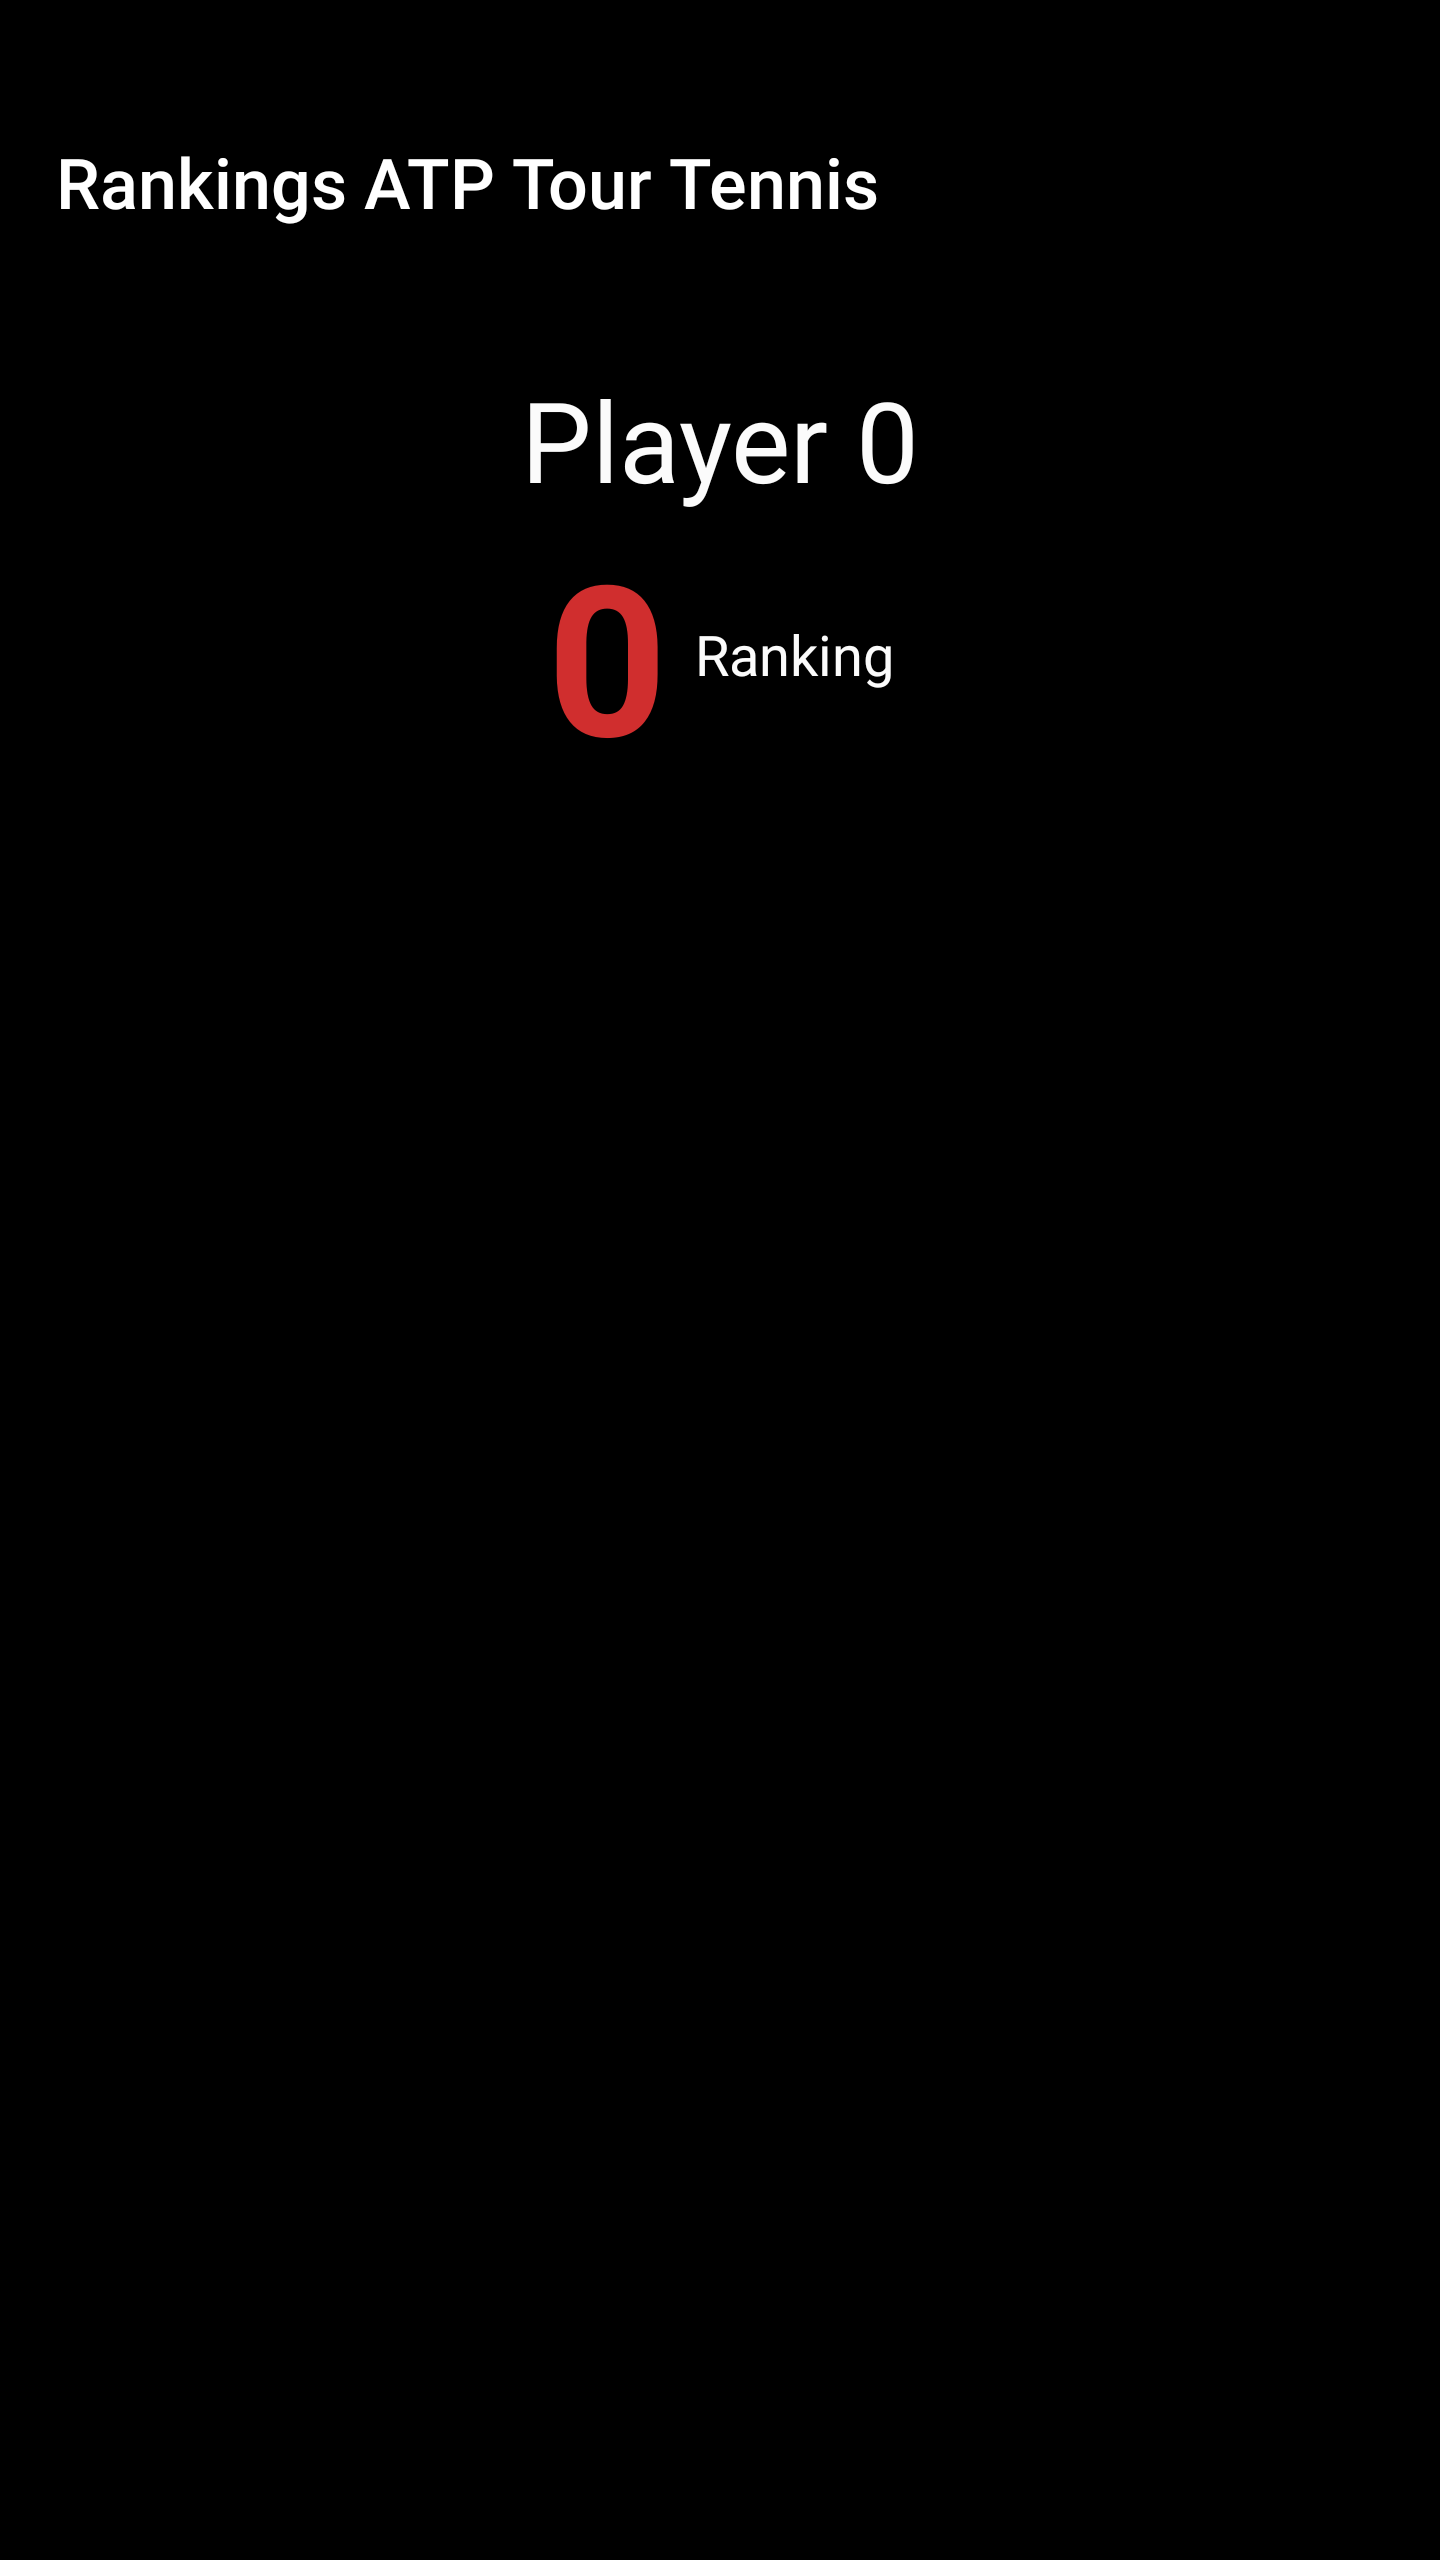
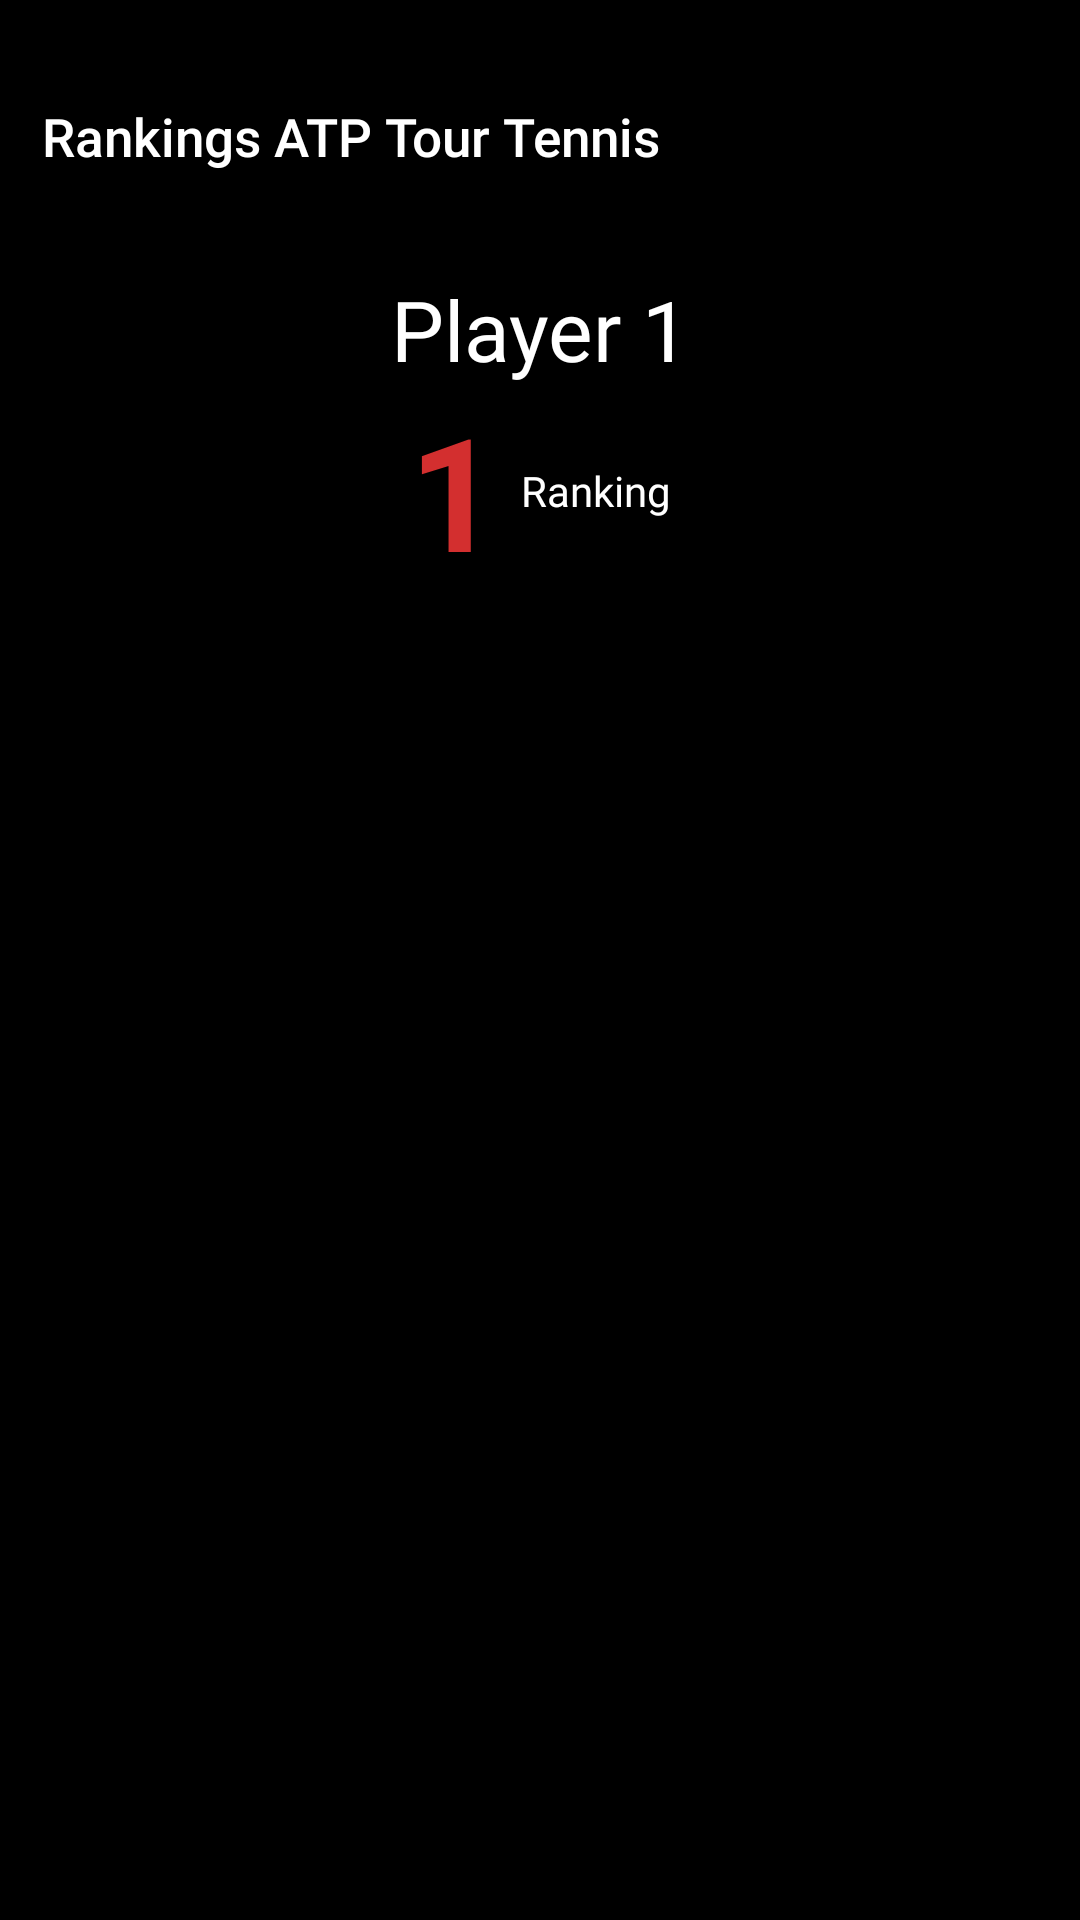
Improve test

diff --git a/app/src/androidTest/kotlin/io.github.erikjhordanrey.atp_rankings_di/doubles/PlayersFakeData.kt b/app/src/androidTest/kotlin/io.github.erikjhordanrey.atp_rankings_di/doubles/PlayersFakeData.kt
@@ -4,7 +4,7 @@ import io.github.erikjhordanrey.atp_rankings_di.domain.Player
 
 fun givenPlayers(numberPlayers: Int = 1) = mutableListOf<Player>().apply {
     for (i in 0 until numberPlayers) {
-        add(givenPlayer(i))
+        add(givenPlayer(i + 1 ))
     }
 }
 
